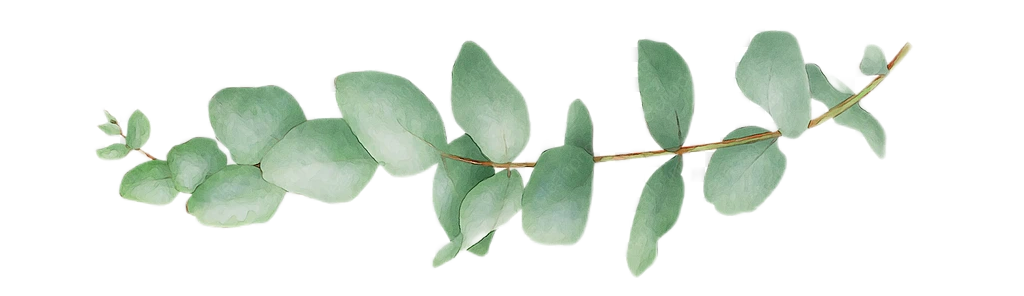
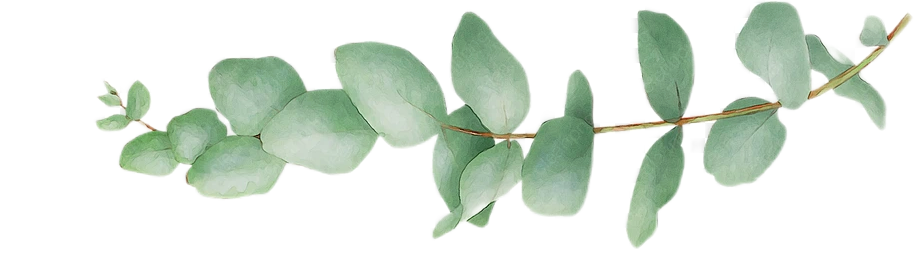
правки css

diff --git a/src/styles/global.css b/src/styles/global.css
@@ -226,7 +226,7 @@ p {
   }
 
   .section-title {
-    line-height: 1.3;
+    line-height: 1;
   }
 }
 
